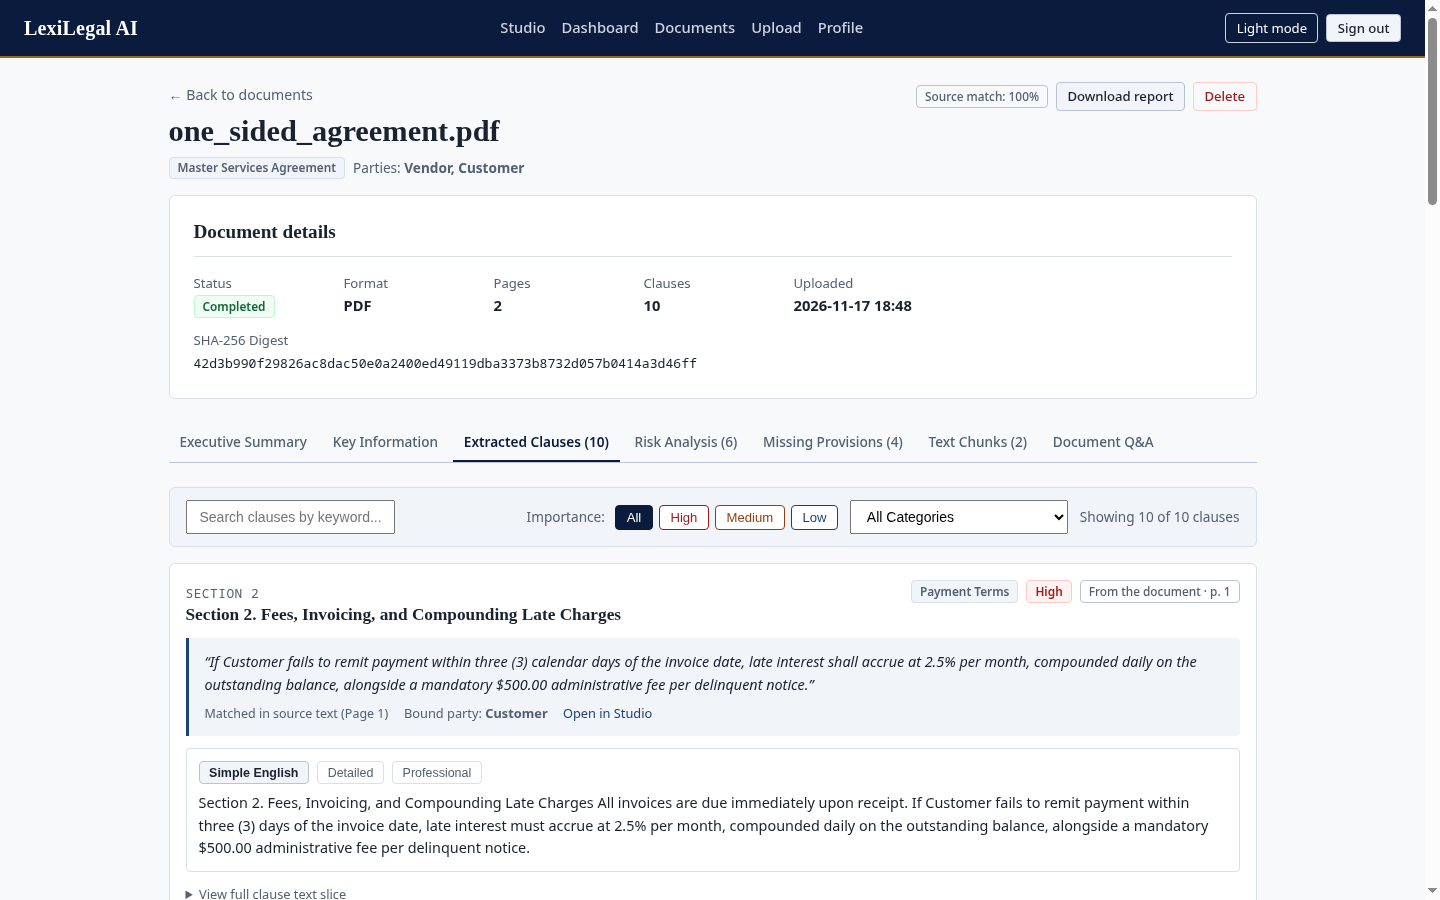
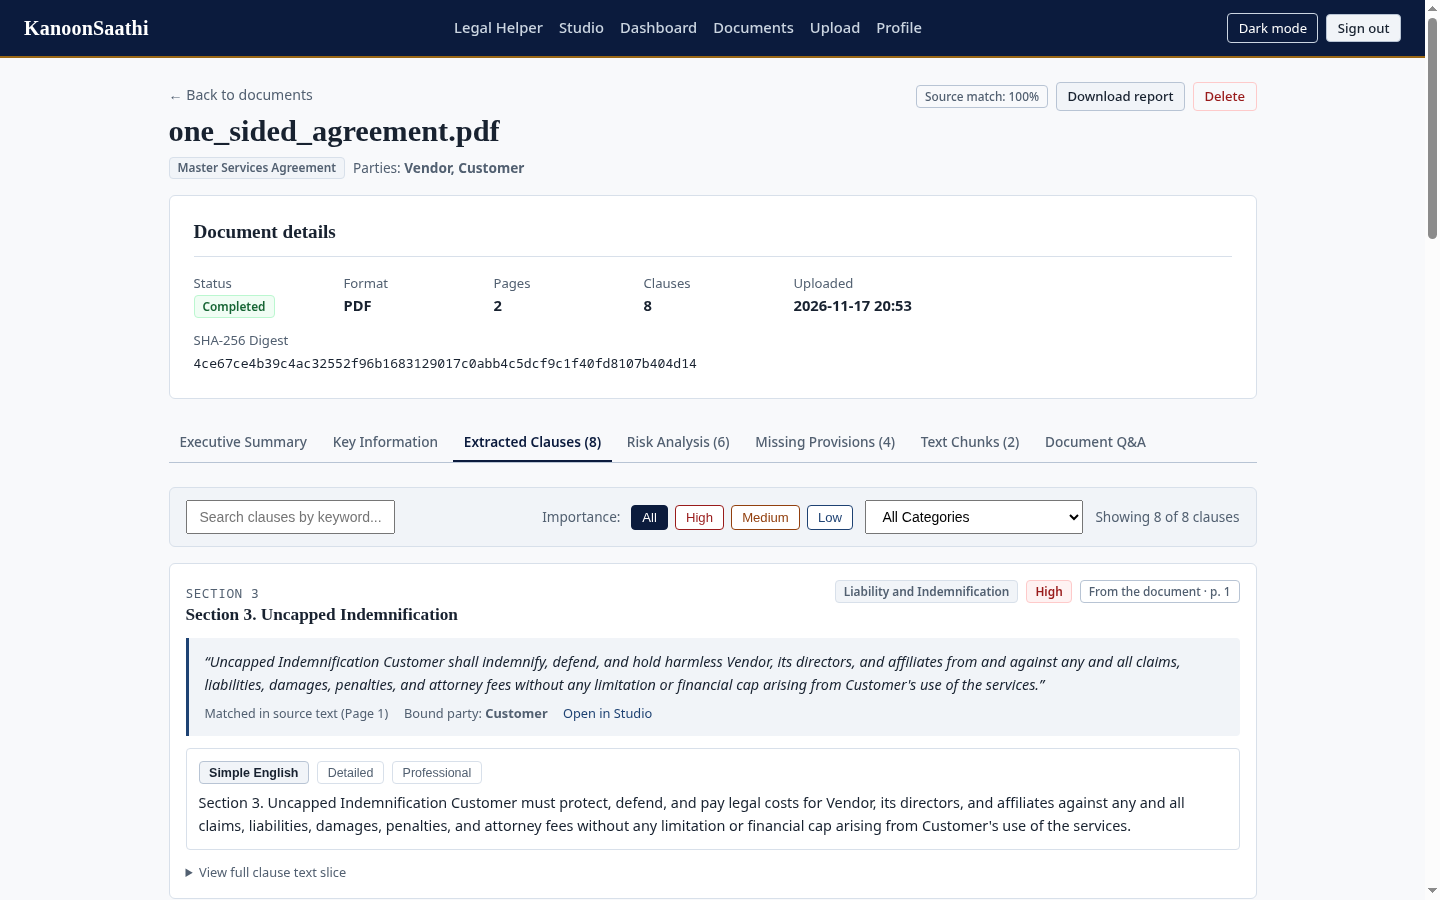
rebrand application, reports, docs, and preview assets to kanoonsaathi

diff --git a/app/templates/base.html b/app/templates/base.html
@@ -4,7 +4,7 @@
   <meta charset="UTF-8">
   <meta name="viewport" content="width=device-width, initial-scale=1.0">
   <meta name="csrf-token" content="{{ csrf_token() }}">
-  <title>{% block title %}LexiLegal AI — Contract Analysis & Simplification{% endblock %}</title>
+  <title>{% block title %}KanoonSaathi — Contract Analysis & Simplification{% endblock %}</title>
   <link rel="stylesheet" href="{{ url_for('static', filename='css/style.css') }}">
   <script src="{{ url_for('static', filename='js/main.js') }}" defer></script>
   {% block extra_head %}{% endblock %}
@@ -12,7 +12,7 @@
 <body>
   <header>
     <nav class="navbar" aria-label="Main navigation">
-      <a href="{{ url_for('main.index') }}" class="nav-brand">LexiLegal AI</a>
+      <a href="{{ url_for('main.index') }}" class="nav-brand">KanoonSaathi</a>
 
       <div class="nav-links">
         <a href="{{ url_for('studio.legal_helper') }}">Legal Helper</a>
@@ -59,7 +59,7 @@
 
   <footer class="footer">
     <div class="footer-inner">
-      <p>&copy; {{ current_year }} LexiLegal AI</p>
+      <p>&copy; {{ current_year }} KanoonSaathi</p>
       <p class="disclaimer">
         Not legal advice. Extracts and simplifies contract text locally for reference only.
       </p>

diff --git a/app/templates/landing.html b/app/templates/landing.html
@@ -1,6 +1,6 @@
 {% extends "base.html" %}
 
-{% block title %}LexiLegal AI — Indian Legal Document & Statute Simplification{% endblock %}
+{% block title %}KanoonSaathi — Indian Legal Document & Statute Simplification{% endblock %}
 
 {% block content %}
 <section class="landing-intro">
@@ -19,7 +19,7 @@
 <figure class="landing-preview">
   <img
     src="{{ url_for('static', filename='img/analysis-preview.png') }}"
-    alt="LexiLegal AI clause analysis screen showing extracted contract clauses, source quotes, and plain-language simplification tabs"
+    alt="KanoonSaathi clause analysis screen showing extracted contract clauses, source quotes, and plain-language simplification tabs"
   >
   <figcaption>
     Document analysis view on a sample services agreement: extracted clauses, page-cited source text, and three explanation modes.

diff --git a/app/static/js/main.js b/app/static/js/main.js
@@ -1,7 +1,7 @@
 (function () {
   "use strict";
 
-  const THEME_STORAGE_KEY = "lexilegal_theme";
+  const THEME_STORAGE_KEY = "kanoonsaathi_theme";
 
   function applyTheme(theme) {
     document.documentElement.setAttribute("data-theme", theme);
@@ -36,7 +36,7 @@
     return meta ? meta.getAttribute("content") : "";
   }
 
-  window.LexiLegal = {
+  window.KanoonSaathi = {
     getCsrfToken: getCsrfToken,
     fetchWithCsrf: function (url, options) {
       options = options || {};

diff --git a/app/templates/documents/detail.html b/app/templates/documents/detail.html
@@ -1,6 +1,6 @@
 {% extends "base.html" %}
 
-{% block title %}{{ document.original_filename }} — LexiLegal AI{% endblock %}
+{% block title %}{{ document.original_filename }} — KanoonSaathi{% endblock %}
 
 {% block extra_head %}
 <script src="{{ url_for('static', filename='vendor/chart.js') }}"></script>

diff --git a/app/templates/errors/500.html b/app/templates/errors/500.html
@@ -1,6 +1,6 @@
 {% extends "base.html" %}
 
-{% block title %}500 Internal Server Error — LexiLegal AI{% endblock %}
+{% block title %}500 Internal Server Error — KanoonSaathi{% endblock %}
 
 {% block content %}
 <div class="auth-container" style="text-align: center; margin-top: 4rem;">

diff --git a/app/templates/errors/error.html b/app/templates/errors/error.html
@@ -1,6 +1,6 @@
 {% extends "base.html" %}
 
-{% block title %}{{ code }} {{ title }} — LexiLegal AI{% endblock %}
+{% block title %}{{ code }} {{ title }} — KanoonSaathi{% endblock %}
 
 {% block content %}
 <div class="auth-container" style="text-align: center; margin-top: 4rem;">

diff --git a/app/templates/auth/profile.html b/app/templates/auth/profile.html
@@ -1,6 +1,6 @@
 {% extends "base.html" %}
 
-{% block title %}Account Profile — LexiLegal AI{% endblock %}
+{% block title %}Account Profile — KanoonSaathi{% endblock %}
 
 {% block content %}
 <div class="auth-container" style="max-width: 600px; margin: 0 auto;">

diff --git a/app/templates/errors/403.html b/app/templates/errors/403.html
@@ -1,6 +1,6 @@
 {% extends "base.html" %}
 
-{% block title %}403 Forbidden — LexiLegal AI{% endblock %}
+{% block title %}403 Forbidden — KanoonSaathi{% endblock %}
 
 {% block content %}
 <div class="auth-container" style="text-align: center; margin-top: 4rem;">

diff --git a/app/templates/errors/404.html b/app/templates/errors/404.html
@@ -1,6 +1,6 @@
 {% extends "base.html" %}
 
-{% block title %}404 Not Found — LexiLegal AI{% endblock %}
+{% block title %}404 Not Found — KanoonSaathi{% endblock %}
 
 {% block content %}
 <div class="auth-container" style="text-align: center; margin-top: 4rem;">

diff --git a/app/templates/dashboard.html b/app/templates/dashboard.html
@@ -1,6 +1,6 @@
 {% extends "base.html" %}
 
-{% block title %}Dashboard — LexiLegal AI{% endblock %}
+{% block title %}Dashboard — KanoonSaathi{% endblock %}
 
 {% block extra_head %}
 <script src="{{ url_for('static', filename='vendor/chart.js') }}"></script>

diff --git a/app/templates/documents/upload.html b/app/templates/documents/upload.html
@@ -1,6 +1,6 @@
 {% extends "base.html" %}
 
-{% block title %}Upload Contract — LexiLegal AI{% endblock %}
+{% block title %}Upload Contract — KanoonSaathi{% endblock %}
 
 {% block content %}
 <div class="auth-container" style="max-width: 600px;">

diff --git a/app/templates/auth/register.html b/app/templates/auth/register.html
@@ -1,6 +1,6 @@
 {% extends "base.html" %}
 
-{% block title %}Create Account — LexiLegal AI{% endblock %}
+{% block title %}Create Account — KanoonSaathi{% endblock %}
 
 {% block content %}
 <div class="auth-container">
